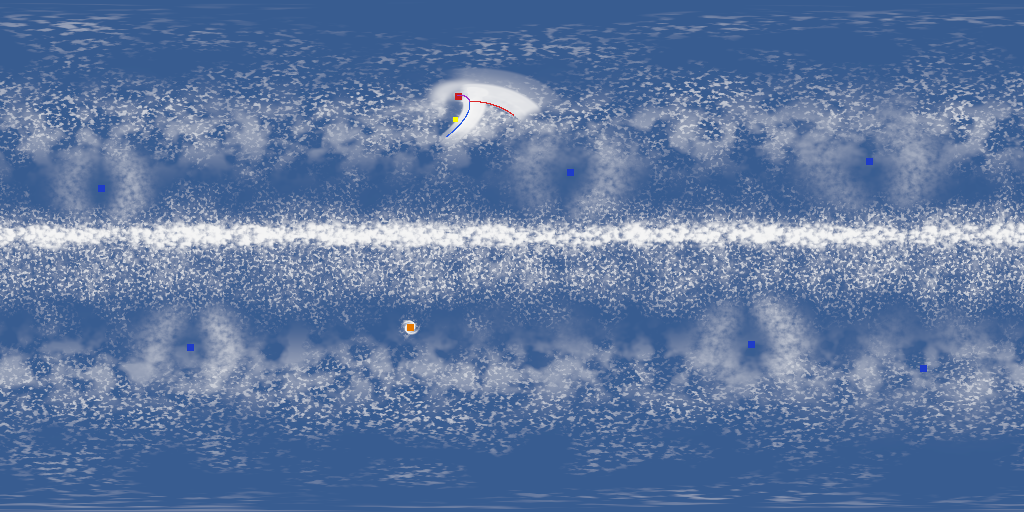
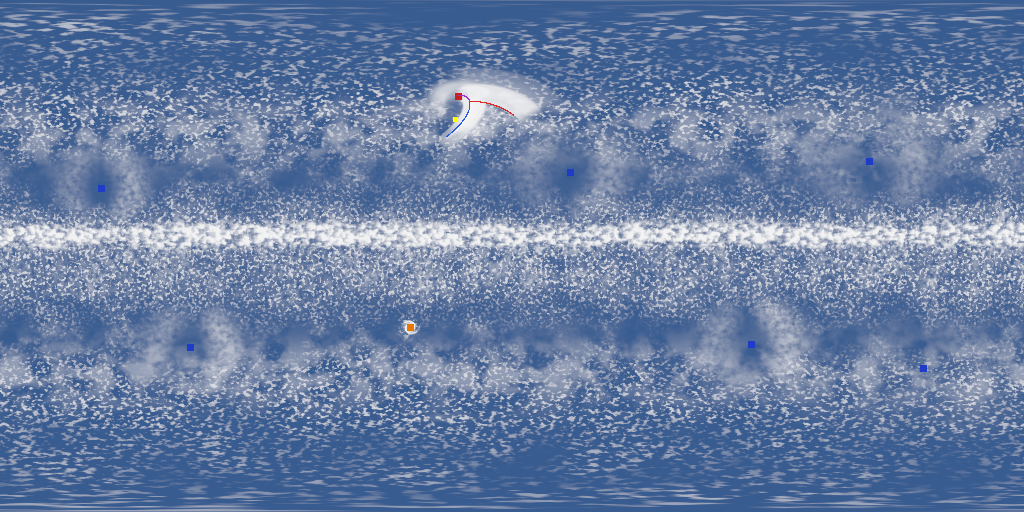
Weather: ground-level scenes; tighter storm bounds; tropical and trade-wind skies
- Convective bounds: a tower's column and its anvil are bounded apart (the
  anvil only near the tropopause), and near a storm the full majorant is
  held for a kilometre rather than to the texel's edge: 5x faster where
  rays cross distant storms near the horizon.
- In unstable air large-scale ascent goes into convection, not
  altostratus sheets: the ITCZ is clusters of cumulonimbus, not overcast.
- The sea moistens the boundary layer, and shallow cumulus form over warm
  seas under subsidence, capped by the inversion: trade-wind cumulus,
  as deep as such clouds are.
- Ground-level scenes over the sea: an approaching warm front, tropical
  storms in the ITCZ, trade cumulus under a high, and the cold front's
  dry slot.

Claude-Session: https://claude.ai/code/session_01U8ZZikwttK4FGiR5f9zih6

diff --git a/src/weather/mod.rs b/src/weather/mod.rs
@@ -553,7 +553,8 @@ impl Weather {
         // subtropics sinking, varied at synoptic scale.
         let itcz = (-((latd - self.itcz()) / 4.).powi(2)).exp();
         let subtropics = (-((latd.abs() - (p.climate.hadley - 2.)) / 7.).powi(2)).exp();
-        let mut humidity = 0.42 + 0.3 * smoothstep(200., 1800., rainfall) - 0.15 * continentality + 0.3 * (synoptic - 0.5);
+        // The sea keeps the air above it moist, even under the subtropics' sinking air.
+        let mut humidity = 0.42 + 0.1 * sea + 0.3 * smoothstep(200., 1800., rainfall) - 0.15 * continentality + 0.3 * (synoptic - 0.5);
         let mut ascent = 0.9 * itcz * (0.4 + 0.9 * meso) - 0.5 * subtropics - 0.2 * smoothstep(70., 85., latd.abs())
             + 0.5 * (synoptic - 0.5);
         let mut instability = 0.6 * smoothstep(20., 29., sea_level) * sea
@@ -590,17 +591,22 @@ impl Weather {
         // air over the sea, cumulus over heated ground; held under the inversion.
         let stratus = remap(humidity, 0.8, 0.98) * (1. - 0.7 * instability);
         let marine = sea * remap(subsidence, 0., 0.5) * remap(humidity, 0.5, 0.8) * smoothstep(12., 25., latd.abs()) * (1. - smoothstep(40., 55., latd.abs()));
-        let cumulus = 0.65 * instability * remap(humidity, 0.4, 0.8) * (1. - 0.6 * deep);
+        // Shallow cumulus over warm seas, capped by the inversion rather than stopped by the
+        // subsidence above it: the trade-wind cumulus.
+        let shallow = 0.6 * sea * smoothstep(14., 26., sea_level) * (1. - 0.5 * clear);
+        let cumulus = 0.65 * instability.max(shallow) * remap(humidity, 0.4, 0.8) * (1. - 0.6 * deep);
         let background = [(stratus, 0.05), (marine, 0.4), (cumulus, 0.95)];
         let weight: f64 = background.iter().map(|c| c.0).sum::<f64>() + e.low_weight;
         let low_form = (background.iter().map(|c| c.0 * c.1).sum::<f64>() + e.low_form + 0.01 * 0.5) / (weight + 0.01);
         let low_cover = (stratus.max(marine).max(cumulus) * (0.3 + 0.9 * synoptic) * (0.5 + 0.9 * (meso - 0.5)).max(0.)).max(e.low * (0.7 + 0.9 * (meso - 0.5)).clamp(0.2, 1.)).clamp(0., 1.) * p.low;
-        let low_depth = lerp(lerp(250., 600., meso), 400. + 1800. * instability, low_form);
+        let low_depth = lerp(lerp(250., 600., meso), 400. + 1800. * instability.max(0.6 * shallow), low_form);
         let low = Cloud { cover: low_cover.clamp(0., 1.), base, top: base + low_depth.min((inversion - lcl).max(250.) + 1500. * low_form), form: low_form };
 
         // Mid cloud: frontal (from the systems), altostratus where rising on a large scale,
         // altocumulus in moist layers aloft.
-        let stratiform = remap(ascent, 0.3, 0.9) * remap(humidity, 0.6, 0.9);
+        // Where the air is unstable its ascent goes into convection, not sheets of cloud (the
+        // anvils' shields are the stratiform part of the storms).
+        let stratiform = remap(ascent, 0.3, 0.9) * remap(humidity, 0.6, 0.9) * (1. - 0.85 * instability);
         let alto = remap(meso2, 0.55, 0.8) * remap(humidity, 0.4, 0.75) * (1. - remap(ascent.abs(), 0.2, 0.6));
         let alto_base = ground.max(0.) + 2800. + 2500. * meso;
         let eps = 0.01;

diff --git a/src/weather/fields.rs b/src/weather/fields.rs
@@ -455,17 +455,25 @@ impl PlanetField for Convective {
         let up = at.position / at.position.norm();
         let mut inside = false;
         let block = self.towers_within(&up, f64::INFINITY, |t| {
+            // The column (with its lumps and dome) up to its top, and the anvil only near it.
             let over = if t.mature { self.overshoot } else { 0. };
             let vertical = (t.base - altitude).max(altitude - (t.top + over)).max(0.);
-            let horizontal = (t.distance - self.tower_reach(t)).max(0.);
-            let gap = vertical.max(horizontal);
+            let horizontal = (t.distance - 1.3 * t.radius).max(0.);
+            let mut gap = vertical.max(horizontal);
+            if t.mature {
+                let low = t.top - self.anvil_depth;
+                let vertical = (low - altitude).max(altitude - t.top).max(0.);
+                gap = gap.min(vertical.max((t.distance - self.tower_reach(t)).max(0.)));
+            }
             if gap <= 0. {
                 inside = true;
             }
             clear = clear.min(gap);
         });
         if inside {
-            return (majorant, length);
+            // Somewhere near this storm: the full bound, but only for a while, as it may soon
+            // be clear of it.
+            return (majorant, length.min(1000.));
         }
         clear = clear.min(block - self.max_reach());
         if clear < 50. {
